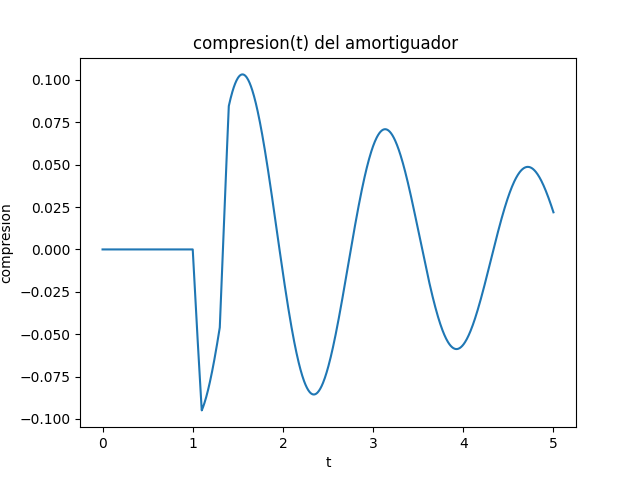
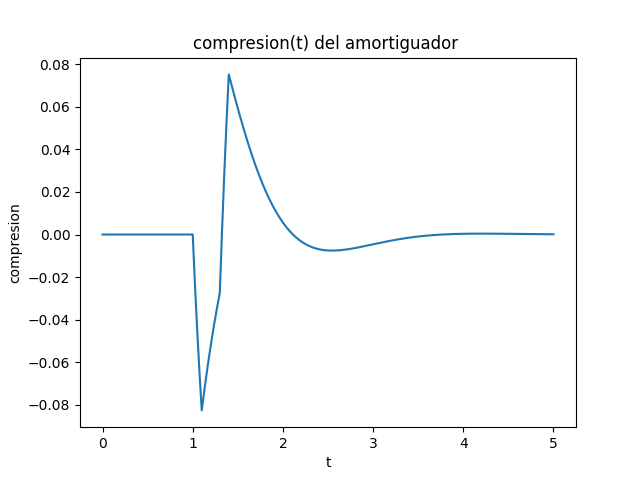
Arreglo k y lambda

diff --git a/script_bkp/amortiguador.py b/script_bkp/amortiguador.py
@@ -55,7 +55,6 @@ def amortiguar():
     extras = [c, c_prim]
 
     # varianza de lambda
-    
     rungekutta2.imprimirRungeKutta2Extras(v_n, utils.intervalo, utils.h, extras, t, c, 15000, 500)
     rungekutta2.imprimirRungeKutta2Extras(v_n, utils.intervalo, utils.h, extras, t, c, 15000, 1000)
     rungekutta2.imprimirRungeKutta2Extras(v_n, utils.intervalo, utils.h, extras, t, c, 15000, 1500)
@@ -73,7 +72,6 @@ def amortiguar():
     rungekutta2.imprimirRungeKutta2Extras(v_n, utils.intervalo, utils.h, extras, t, c, 40000, 500)
 
     # prueba de otra varianza, fidelidad de datos
-    
     rungekutta2.imprimirRungeKutta2Extras(v_n, utils.intervalo, utils.h, extras, t, c, 30000, 500)
     rungekutta2.imprimirRungeKutta2Extras(v_n, utils.intervalo, utils.h, extras, t, c, 30000, 1000)
     rungekutta2.imprimirRungeKutta2Extras(v_n, utils.intervalo, utils.h, extras, t, c, 30000, 1500)
@@ -87,12 +85,14 @@ def amortiguar():
     lambdaAmortiguado = utils.lambdaAmortiguado
     kAmortiguado = utils.kAmortiguado
     compresionFinal = utils.compresionFinal
+    minimaPonderacion = utils.minimaPonderacion
+    lam = 750
     for i in range(int(lambdaV.shape[0])-1):
         for j in range(int(kV.shape[0])-1):
             act = 0
             act = maximaCompresion(utils.intervalo, utils.h, extras, c,lambdaV[i],kV[j])
             if act >= utils.maxiCompresion:
-                ponderacionActual = lambdaV[i] / 750 + kV[j] / utils.k
+                ponderacionActual = lambdaV[i] / lam + kV[j] / utils.k
                 if ponderacionActual < minimaPonderacion:
                     minimaPonderacion = ponderacionActual
                     lambdaAmortiguado = lambdaV[i]
@@ -102,8 +102,8 @@ def amortiguar():
     print('K elegido = ' + str(kAmortiguado) + ' y lambda electo = ' + str(lambdaAmortiguado) +
           'con compresion = ' + str(compresionFinal))
     
-    kAmortiguado = 80500
-    lambdaAmortiguado = 4550
+    kAmortiguado = 10550
+    lambdaAmortiguado = 5550
     t = np.arange(0, utils.intervalo + utils.h, utils.h)
     u, v = rungekutta2.imprimirRungeKutta2Extras(v_n, utils.intervalo, utils.h, extras, t, c, kAmortiguado, lambdaAmortiguado)
 
@@ -113,6 +113,6 @@ def amortiguar():
     plt.xlabel('t')
     plt.ylabel('y\'\'(t)')
     plt.title('Aceleracion')
-    #plt.plot(x, y, 'r')
-    #plt.show()
+    plt.plot(x, y, 'r')
+    plt.show()
     return

diff --git a/script_bkp/rungekutta2.py b/script_bkp/rungekutta2.py
@@ -95,8 +95,8 @@ def imprimirAmortiguado(t,aproximada,k,h):
     plt.ylabel('y')
     plt.title('y(t) RK2 k = ' + str(k))
     name = 'RK2Amortiguado' + str(h) + '.png'
-    #plt.savefig(name)
-    #plt.show()
+    plt.savefig(name)
+    plt.show()
     return
 
 def imprimirCompresion(t,aproximada,h):
@@ -105,8 +105,8 @@ def imprimirCompresion(t,aproximada,h):
     plt.ylabel('compresion')
     plt.title('compresion(t) del amortiguador ')
     name = 'Compresion' + str(h) + '.png'
-    #plt.savefig(name)
-    #plt.show()
+    plt.savefig(name)
+    plt.show()
     return
 
 def iterarCompresion(intervalo,h,aproximada,k,lamda_,c):

diff --git a/script_bkp/utils.py b/script_bkp/utils.py
@@ -48,6 +48,6 @@ compresionFinal = -10000000
 minimaPonderacion = 10000000000
 lambdaAmortiguado = 150
 kAmortiguado = 25000
-lambdaV = np.arange(150,12000,50)
-kV = np.arange(2500,100000,1000)
+lambdaV = np.arange(1000,12000,50)
+kV = np.arange(3000,100000,1000)
 
